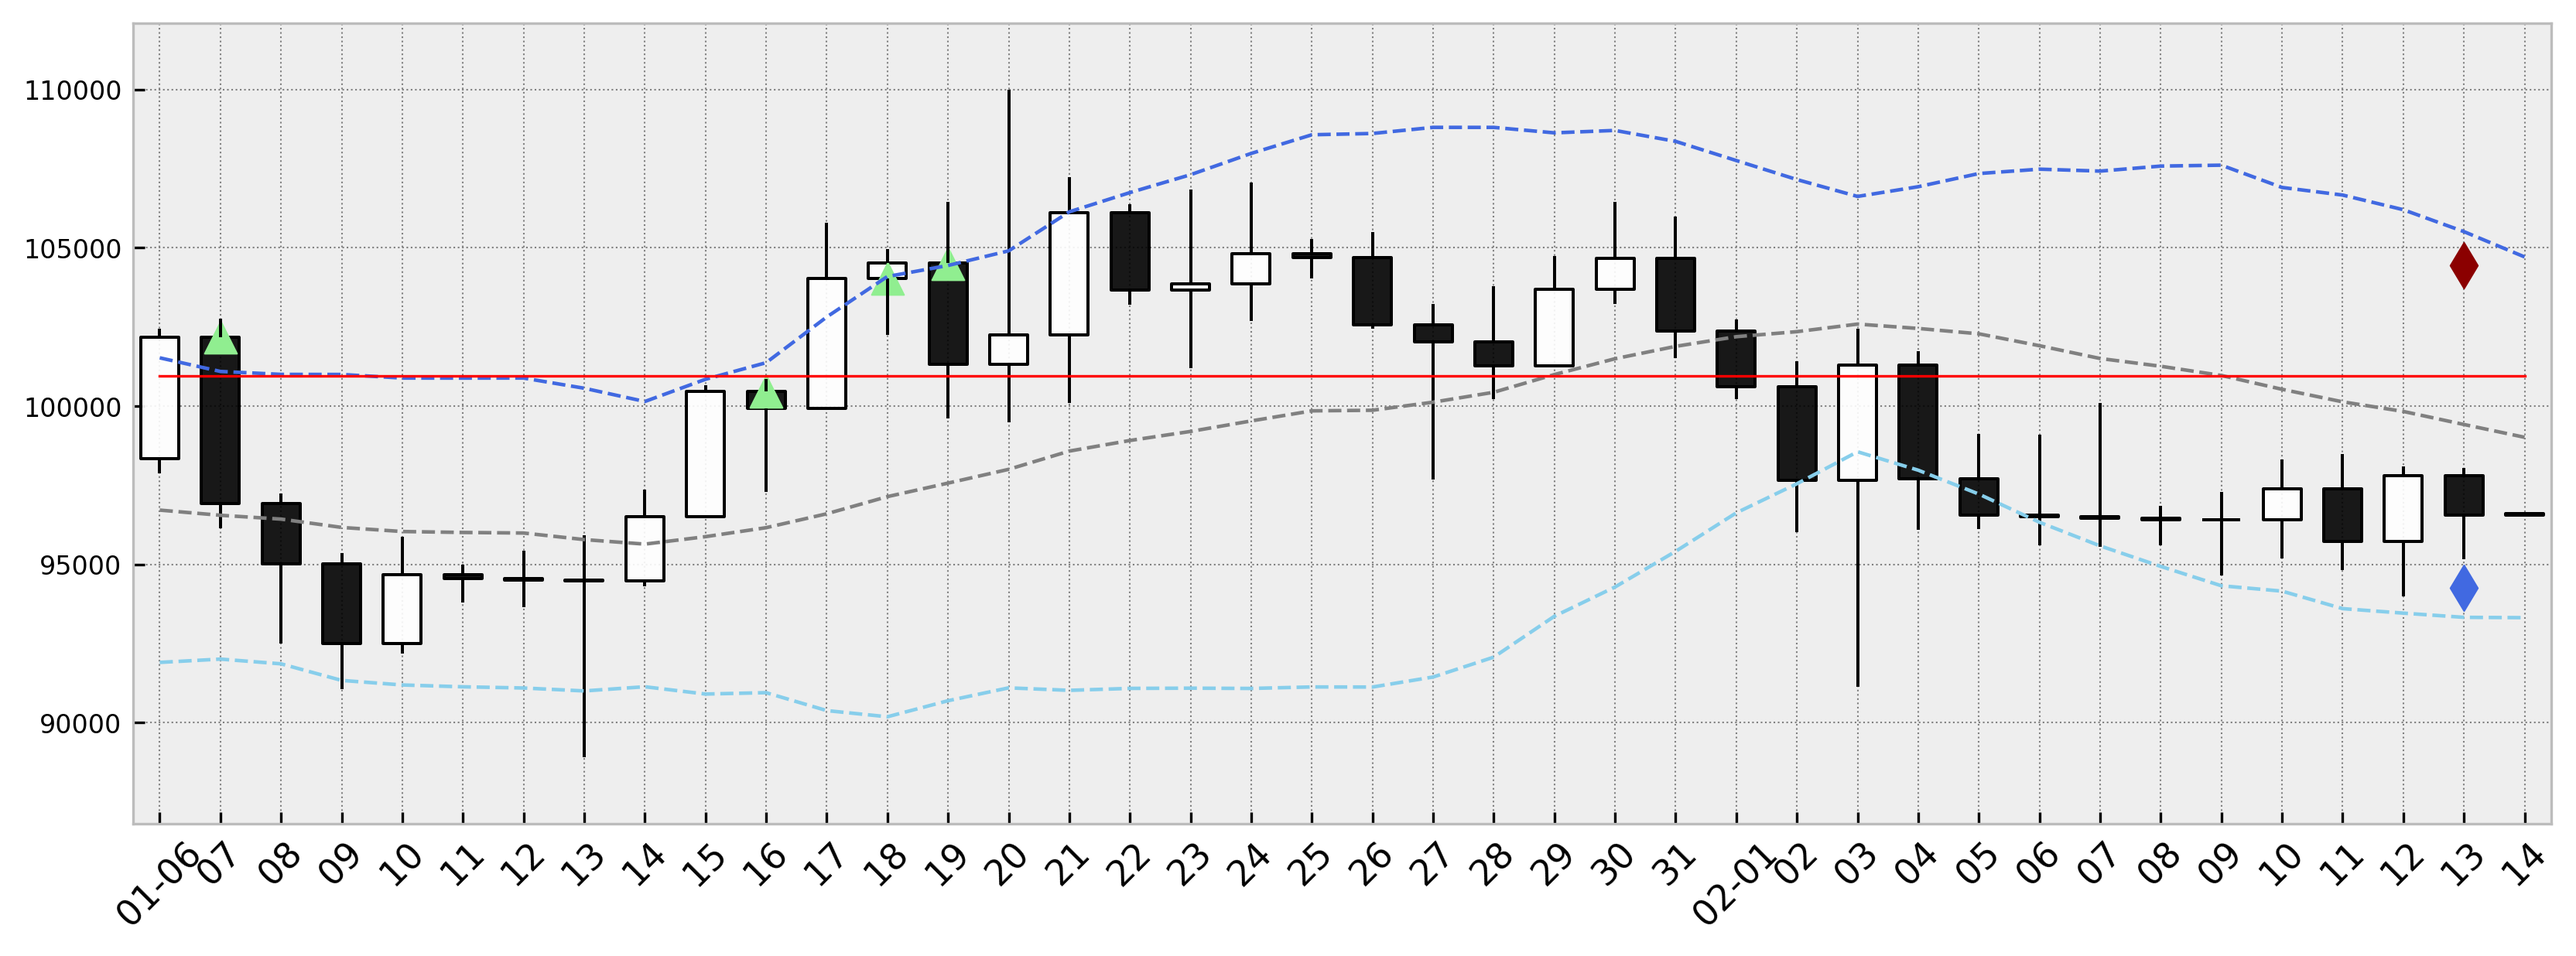
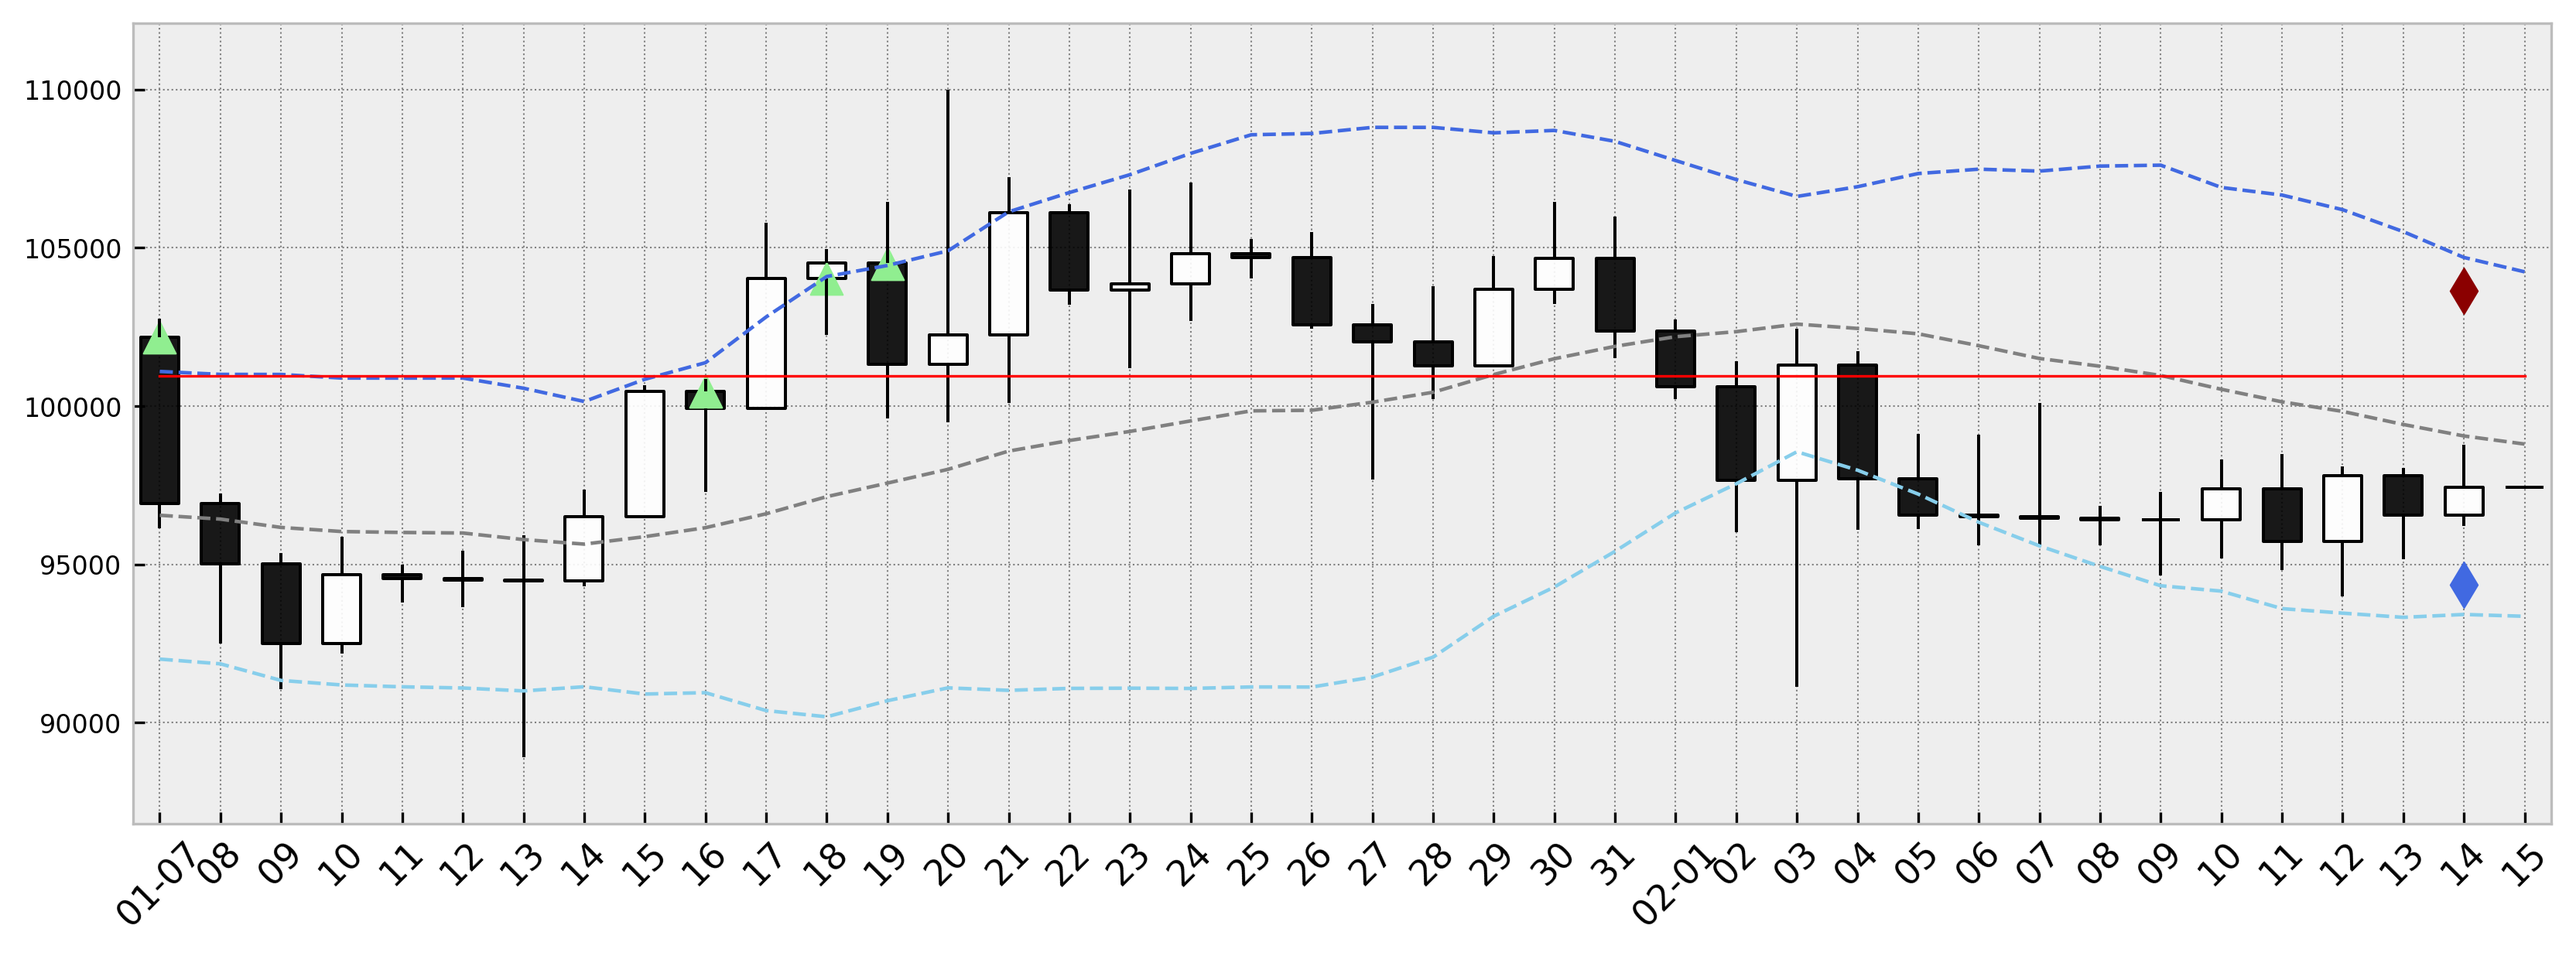
Update web contents - 2025-02-15 09:00:25

diff --git a/index.html b/index.html
@@ -9,16 +9,16 @@
 <body>
     <div class="container">
         <div class="header">
-            <div class="date"><span class="title-text">Binance</span>  2025-02-14 09:00:07</div>
+            <div class="date"><span class="title-text">Binance</span>  2025-02-15 09:00:07</div>
             <div class="info">
                 <div class="info-item">
                     <span class="label">Total Value: </span>
-                    <span class="value">$ 262.7647</span>
+                    <span class="value">$ 270.1813</span>
                 </div>
                 <div class="info-group">
                     <div class="info-item">
                         <span class="label">Capital: </span>
-                        <span class="value">$ 88.7241</span>
+                        <span class="value">$ 94.7592</span>
                     </div>
                     <div class="info-item">
                         <span class="label">Position (BTC): </span>
@@ -36,27 +36,27 @@
             <div class="info-group">
                 <div class="info-item">
                     <span class="label">Close(-1D): </span>
-                    <span class="value">$ 96,560.6</span>
+                    <span class="value">$ 97,445.1</span>
                 </div>
                 <div class="info-item">
                     <span class="label">Threshold_Low: </span>
-                    <span class="value">$ 94,262.5</span>
+                    <span class="value">$ 94,354.1</span>
                 </div>
             </div>
             <div class="info-group">
                 <div class="info-item">
                     <span class="label">Threshold_High: </span>
-                    <span class="value">$ 104,459.2</span>
+                    <span class="value">$ 103,650.9</span>
                 </div>
                 <div class="info-item">
                     <span class="label">ADX: </span>
-                    <span class="value">32.3</span>
+                    <span class="value">30.7</span>
                 </div>
             </div>
             <div class="info-group">
                 <div class="info-item">
                     <span class="label">BRK cnt: </span>
-                    <span class="value">58</span>
+                    <span class="value">59</span>
                 </div>
                 <div class="info-item">
                     <span class="alert-label">Signal: </span>
@@ -70,7 +70,7 @@
         
         <div class="header">
             <div class="info">
-                <div class="date"><span class="title-text">TIGER Nasdaq100</span>  2025-02-14 09:00:11</div>
+                <div class="date"><span class="title-text">TIGER Nasdaq100</span>  2025-02-15 09:00:11</div>
                 <div class="info-group">
                     <div class="info-item">
                         <span class="label">Open(Today): </span>
@@ -98,7 +98,7 @@
                     </div>
                     <div class="info-item">
                         <span class="alert-label">Alert: </span>
-                        <span class="value">buy</span>
+                        <span class="value">-</span>
                     </div>
                 </div>
             </div>
@@ -112,7 +112,7 @@
 
         <div class="header">
             <div class="info">
-                <div class="date"><span class="title-text">Index</span>  2025-02-14 09:00:14</div>
+                <div class="date"><span class="title-text">Index</span>  2025-02-15 09:00:14</div>
             </div>
         </div>
 

diff --git a/fam_index.html b/fam_index.html
@@ -13,7 +13,7 @@
         
         <div class="header">
             <div class="info">
-                <div class="date"><span class="title-text">TIGER 미국나스닥100(133690)</span>  2025-02-14 09:00:11</div>
+                <div class="date"><span class="title-text">TIGER 미국나스닥100(133690)</span>  2025-02-15 09:00:11</div>
                 <div class="info-group">
                     <div class="info-item">
                         <span class="label">시작가(금일): </span>
@@ -41,7 +41,7 @@
                     </div>
                     <div class="info-item">
                         <span class="alert-label">신호: </span>
-                        <span class="value"><span class="value">안샀으면 매수(샀으면 유지)</span></span>
+                        <span class="value"><span class="value">거래 불가</span></span>
                     </div>
                 </div>
             </div>
